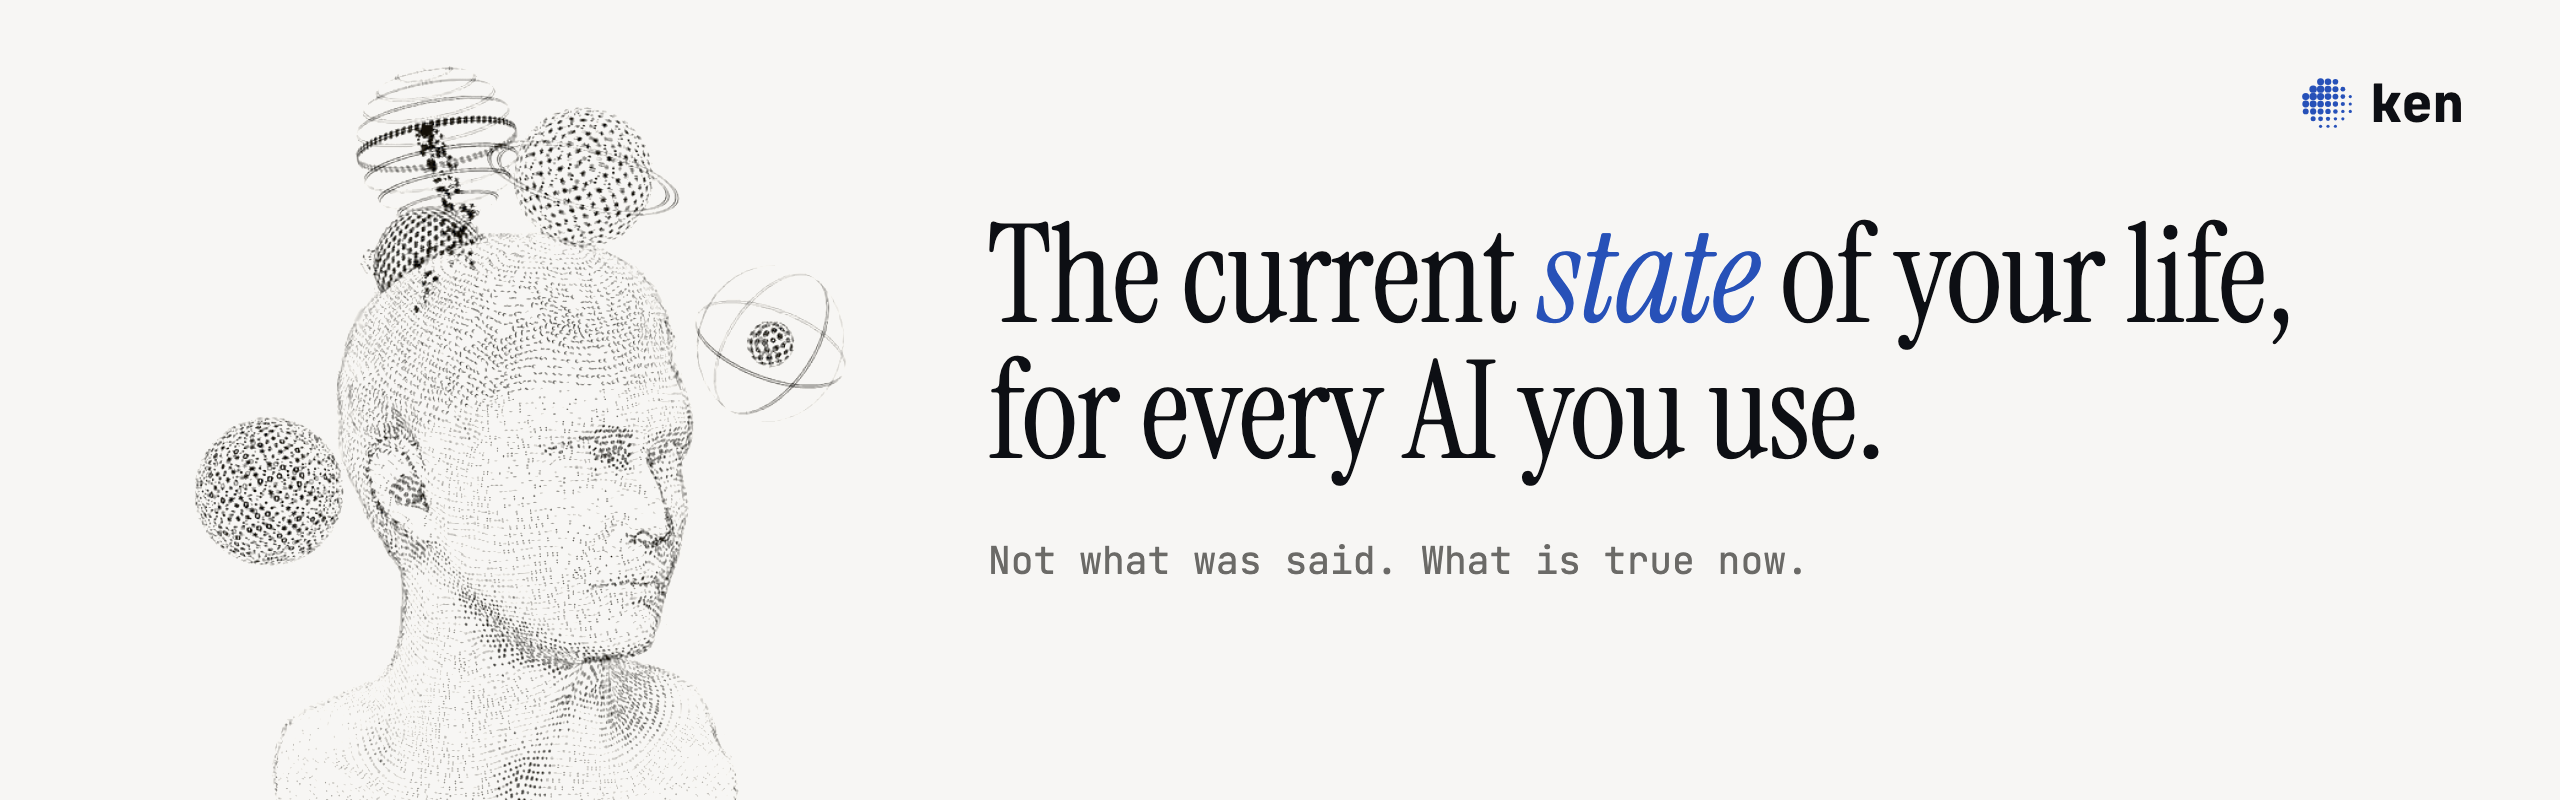
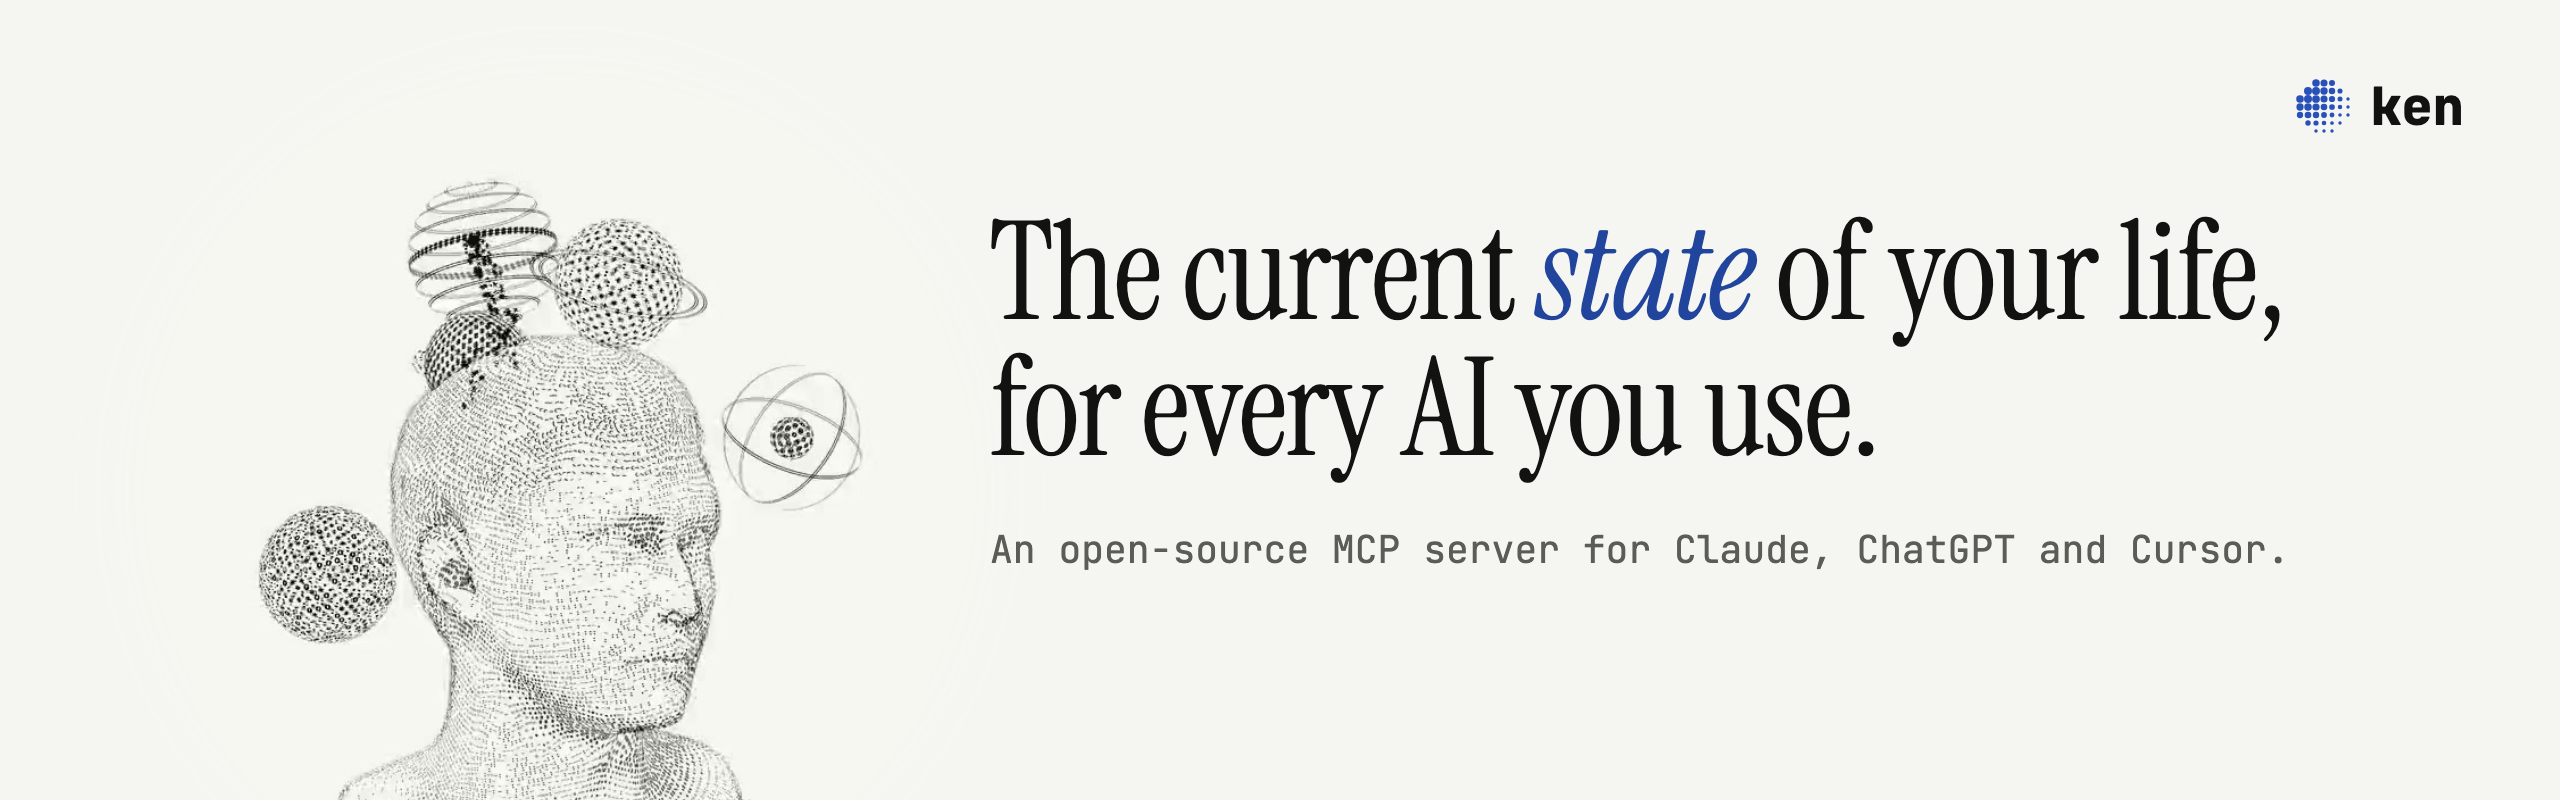
README header: say what Ken is (an open-source MCP server) (#27)

diff --git a/README.md b/README.md
@@ -1,6 +1,6 @@
 <picture>
   <source media="(prefers-color-scheme: dark)" srcset=".github/assets/header-dark.png">
-  <img alt="ken. A head drawn in dots, with small worlds, your agents, around it. The current state of your life, for every AI you use. Not what was said. What is true now." src=".github/assets/header-light.png" width="100%">
+  <img alt="ken. A head drawn in dots, with small worlds, your agents, around it. The current state of your life, for every AI you use. An open-source MCP server for Claude, ChatGPT and Cursor." src=".github/assets/header-light.png" width="100%">
 </picture>
 
 <p align="center">
